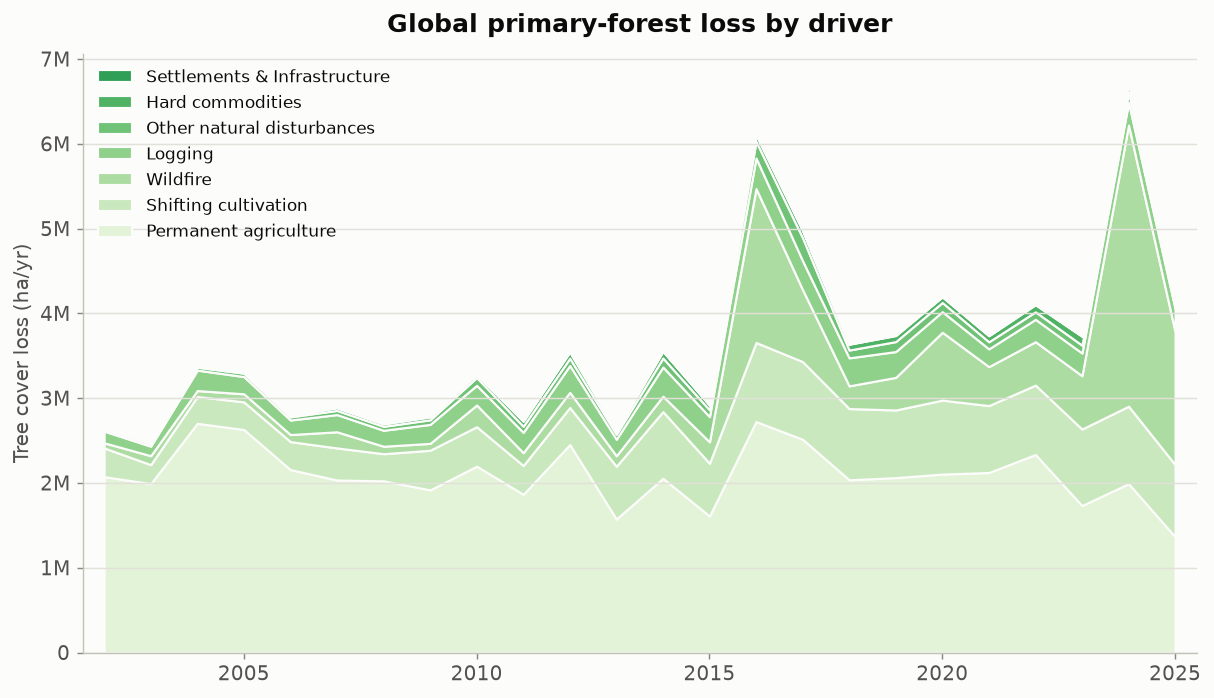
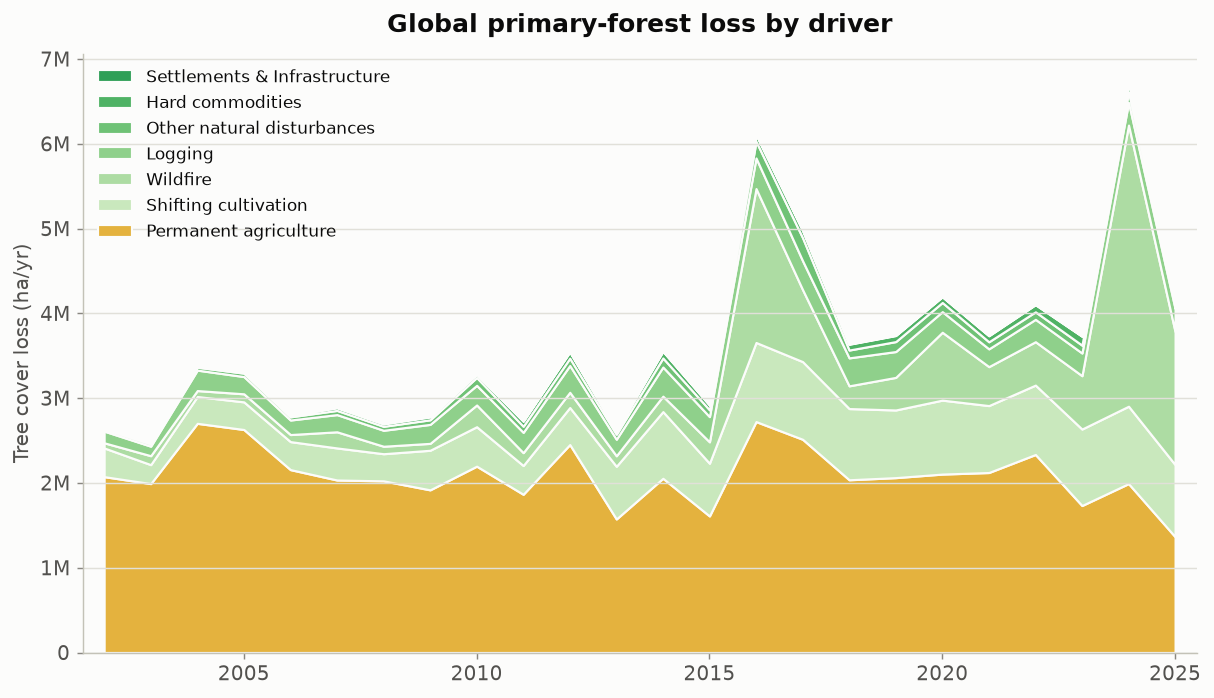
Color permanent agriculture crop-gold (reference cue)
Per the reference infographic where cropland reads yellow, recolor
Permanent agriculture to a crop-field gold while keeping every other
driver its pastel-green shade. Icons remain primary-driver-only.

Changed region(s): [[0.061, 0.6017, 0.9753, 0.9327], [0.0914, 0.3009, 0.1219, 0.361]]

diff --git a/src/forest_viz/palette.py b/src/forest_viz/palette.py
@@ -24,9 +24,11 @@ DRIVER_ORDER = [
 ]
 
 # Each driver is assigned a fixed shade of pastel green (light -> dark),
-# consistent across every country. Order matches DRIVER_ORDER.
-_SLOTS_LIGHT = ["#e3f3d8", "#c9e8bd", "#addca3", "#8fd08b", "#6fc276", "#4fb265", "#2f9f57"]
-_SLOTS_DARK = ["#b7d9a6", "#9ccb8a", "#7fbd75", "#61ad63", "#469a55", "#2f8547", "#1f6f39"]
+# consistent across every country. Order matches DRIVER_ORDER. The one
+# exception is Permanent agriculture (slot 0), colored crop-field gold like
+# the reference infographic's cropland.
+_SLOTS_LIGHT = ["#e4b23e", "#c9e8bd", "#addca3", "#8fd08b", "#6fc276", "#4fb265", "#2f9f57"]
+_SLOTS_DARK = ["#c9992f", "#9ccb8a", "#7fbd75", "#61ad63", "#469a55", "#2f8547", "#1f6f39"]
 
 DRIVER_COLORS = dict(zip(DRIVER_ORDER, _SLOTS_LIGHT))
 DRIVER_COLORS_DARK = dict(zip(DRIVER_ORDER, _SLOTS_DARK))

diff --git a/README.md b/README.md
@@ -112,7 +112,9 @@ pushed apart so a clear gap separates them, and tiny outlying islands are
 dropped (e.g. Alaska) for clean silhouettes.
 
 Drivers are colored in consistent **pastel-green shades** (each driver keeps
-its shade everywhere). The exception is each country's **primary driver**:
+its shade everywhere), except **Permanent agriculture**, which uses a
+crop-field **gold** (cropland cue from the reference infographic). The other
+exception is each country's **primary driver**:
 its sector is filled with tiled **3-D icons** representing that driver —
 burning trees (wildfire), axes (logging), tractors (permanent agriculture),
 seedlings (shifting cultivation), etc. — with the icon count scaling to the
